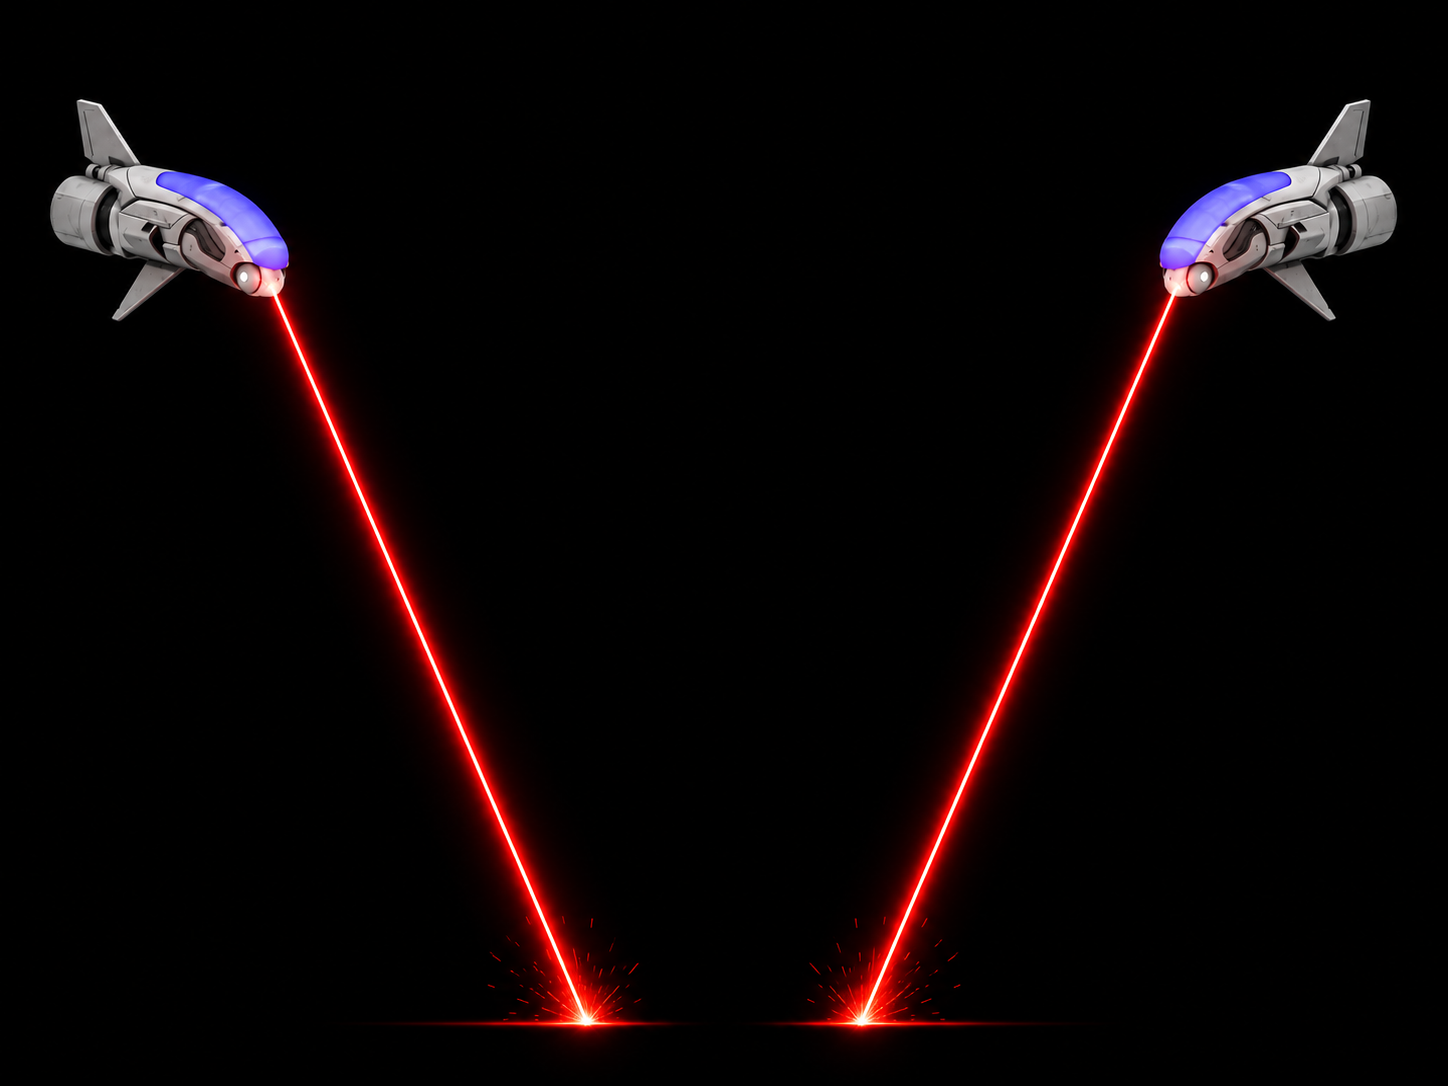
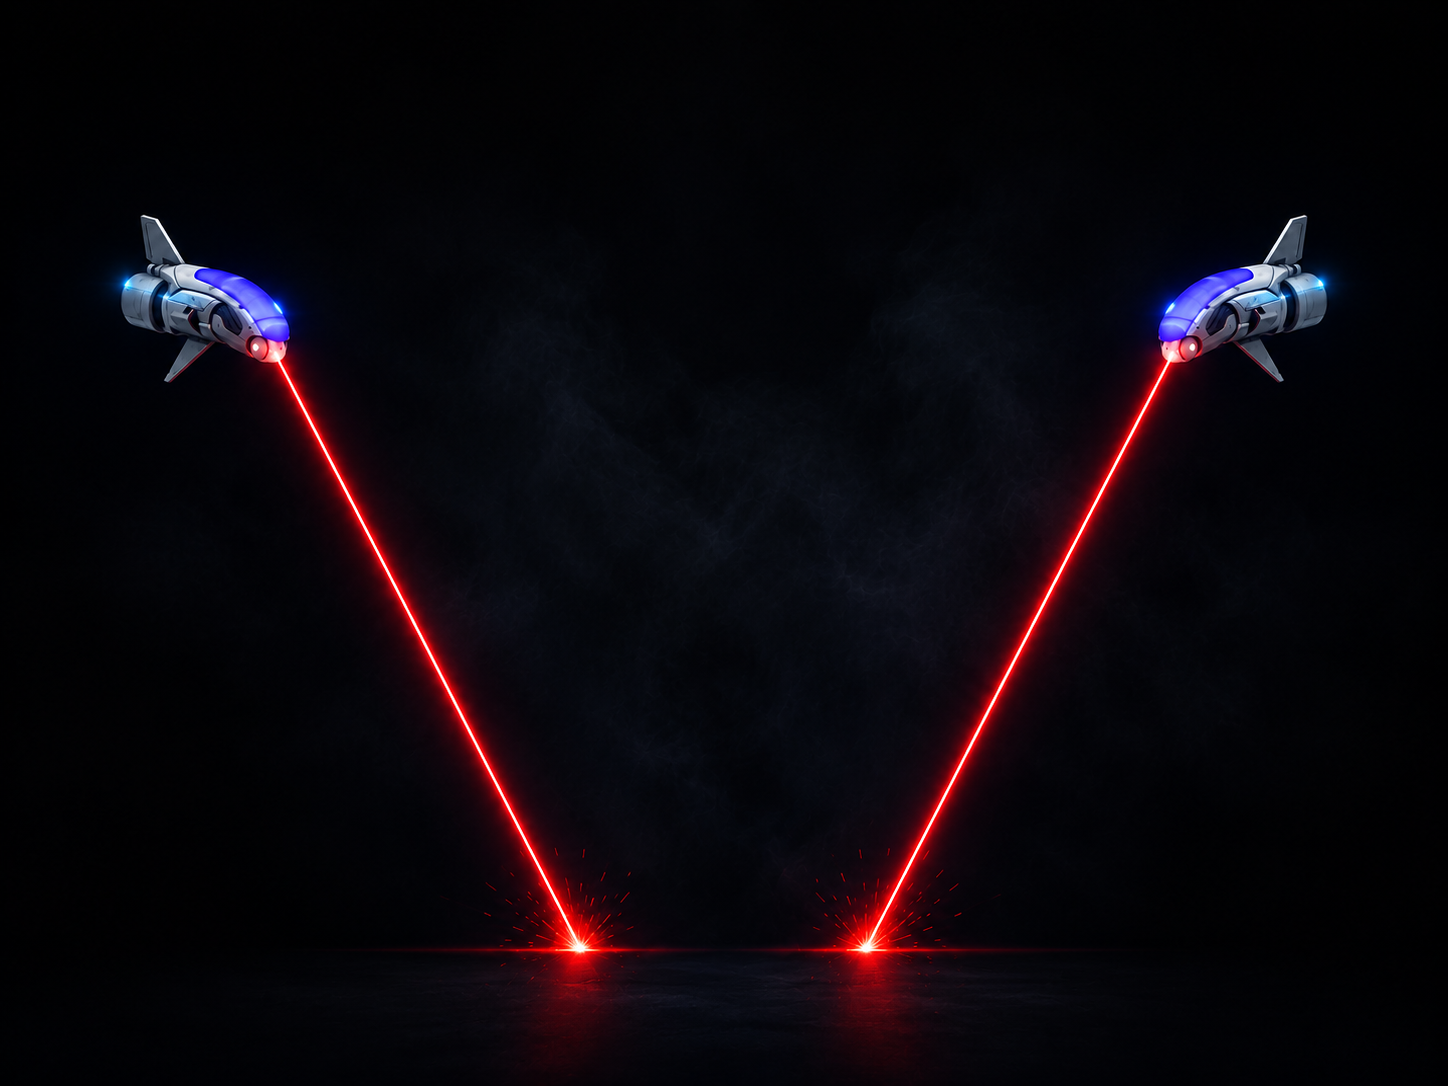
more HUD improvements (incl. new in-game HUD + new start background)

diff --git a/src/hud.cpp b/src/hud.cpp
@@ -2,6 +2,8 @@
 #include "screen_renderer.h"
 #include "texture_loading.h"
 
+#include <algorithm>
+
 void startingScreen(TextRenderer &tr, Player &player, int selectedEnv)
 {
     // update blink time
@@ -23,13 +25,19 @@ void startingScreen(TextRenderer &tr, Player &player, int selectedEnv)
     float textScale = std::min(xScale, yScale);
 
     // title
-    tr.RenderTextBordered("Drone  Shooter", 180.0f * xScale, 400.0f * yScale, 1.2f * textScale,
+    std::string_view title = "DRONE  SHOOTER";
+    float titleScale = 1.52f * textScale;
+    float titleX = (static_cast<float>(player.SCR_WIDTH) - tr.MeasureText(title, titleScale)) * 0.5f;
+    tr.RenderTextBordered(title, titleX, 475.0f * yScale, titleScale,
                            glm::vec3(0.392f, 0.263f, 1.0f), glm::vec3(1.0f, 1.0f, 1.0f));
 
     // add blinking effect
     if (static_cast<int>(tr.blink) % 2 == 0)
     {
-        tr.RenderText("Press  ENTER  to  start", 253.0f * xScale, 303.0f * yScale, 0.55f * textScale, glm::vec3(0.82f, 0.82f, 0.82f));
+        std::string_view startPrompt = "Press  ENTER  to  start";
+        float startPromptScale = 0.55f * textScale;
+        float startPromptX = (static_cast<float>(player.SCR_WIDTH) - tr.MeasureText(startPrompt, startPromptScale)) * 0.5f;
+        tr.RenderText(startPrompt, startPromptX, 315.0f * yScale, startPromptScale, glm::vec3(0.82f, 0.82f, 0.82f));
     }
 
     float textSize = 0.35f * textScale;
@@ -42,9 +50,10 @@ void startingScreen(TextRenderer &tr, Player &player, int selectedEnv)
     // environment selector
     const std::string envNames[4] = {"Desert", "Forest", "Snow", "Night"};
     float selectorTextSize = 0.55f * textScale;
-    float nameX   = 370.0f * xScale; // env name column
-    float arrowX  = 338.0f * xScale; // ">" column, slightly to the left
-    float startY  = 195.0f;
+    float selectedSelectorTextSize = selectorTextSize + 0.05f;
+    float nameCenterX = static_cast<float>(player.SCR_WIDTH) * 0.5f;
+    float arrowX = nameCenterX - 72.0f * xScale;
+    float startY  = 215.0f;
     float stepY   = 33.0f;
 
     for (int i = 0; i < 4; i++)
@@ -52,11 +61,13 @@ void startingScreen(TextRenderer &tr, Player &player, int selectedEnv)
         float y = (startY - i * stepY) * yScale;
         if (i == selectedEnv)
         {
+            float nameX = nameCenterX - tr.MeasureText(envNames[i], selectedSelectorTextSize) * 0.5f;
             tr.RenderTextBordered(">", arrowX, y, selectorTextSize, glm::vec3(0.392f, 0.263f, 1.0f), glm::vec3(1.0f, 1.0f, 1.0f));
-            tr.RenderTextBordered(envNames[i], nameX, y, selectorTextSize + 0.05, glm::vec3(0.392f, 0.263f, 1.0f), glm::vec3(1.0f, 1.0f, 1.0f));
+            tr.RenderTextBordered(envNames[i], nameX, y, selectedSelectorTextSize, glm::vec3(0.392f, 0.263f, 1.0f), glm::vec3(1.0f, 1.0f, 1.0f));
         }
         else
         {
+            float nameX = nameCenterX - tr.MeasureText(envNames[i], selectorTextSize) * 0.5f;
             tr.RenderText(envNames[i], nameX, y, selectorTextSize, glm::vec3(0.392f, 0.263f, 1.0f));
         }
     }
@@ -64,14 +75,9 @@ void startingScreen(TextRenderer &tr, Player &player, int selectedEnv)
 
 void inGameScreen(TextRenderer &tr, Player &player)
 {
-    // update blink time
-    tr.blink += tr.deltaTime + 0.03; // add small offset to make text blink faster
-
     // set projection matrix and render in-game HUD
     tr.projection = player.getOrthoProjectionMatrix();
     int playerHealth = static_cast<int>(player.getHealth());
-    std::string health = "Health:  " + std::to_string(playerHealth);
-    std::string kill = "Kills:  " + std::to_string(player.getKills());
 
     // calculate scaling factors (all x-pos and y-pos in RenderText are based on a screen with height = 600 and width = 800)
     float xScale = static_cast<float>(player.SCR_WIDTH) / 800.0f;
@@ -80,21 +86,49 @@ void inGameScreen(TextRenderer &tr, Player &player)
     // also calculate text scale factor
     float textScale = std::min(xScale, yScale);
 
-    // kill count
-    tr.RenderText(kill, 365.0f * xScale, 565.0f * yScale, 0.5f * textScale, glm::vec3(0.0f, 0.0f, 0.0f));
+    const glm::vec3 black(0.0f, 0.0f, 0.0f);
+    const glm::vec3 white(1.0f, 1.0f, 1.0f);
 
-    // player's health: add blinking effect and red color if it gets low
-    if (playerHealth <= 20)
+    int visibleHealth = playerHealth;
+    if (visibleHealth < 0)
     {
-        if (static_cast<int>(tr.blink) % 2 == 0)
-        {
-            tr.RenderText(health, 348.0f * xScale, 540.0f * yScale, 0.5f * textScale, glm::vec3(0.7f, 0.0f, 0.1f));
-        }
+        visibleHealth = 0;
     }
-    else
+    else if (visibleHealth > 100)
     {
-        tr.RenderText(health, 348.0f * xScale, 540.0f * yScale, 0.5f * textScale, glm::vec3(0.0f, 0.0f, 0.0f));
+        visibleHealth = 100;
     }
+
+    int filledBars = visibleHealth / 10;
+    std::string healthBar = "[" + std::string(filledBars, '#') + std::string(10 - filledBars, '-') + "]  " + std::to_string(visibleHealth);
+
+    glm::vec3 healthColor(0.0f, 0.82f, 0.22f);
+    if (visibleHealth < 30)
+    {
+        healthColor = glm::vec3(0.86f, 0.0f, 0.12f);
+    }
+    else if (visibleHealth <= 60)
+    {
+        healthColor = glm::vec3(1.0f, 0.46f, 0.0f);
+    }
+
+    float leftMargin = 20.0f * xScale;
+    tr.RenderTextBordered("HEALTH", leftMargin, 565.0f * yScale, 0.48f * textScale, black, white);
+    tr.RenderTextBordered(healthBar, leftMargin, 525.0f * yScale, 0.45f * textScale, healthColor, white);
+
+    std::string killsLabel = "KILLS";
+    std::string killCount = std::to_string(player.getKills());
+    float killsLabelScale = 0.48f * textScale;
+    float killCountScale = 0.68f * textScale;
+    float rightMargin = 24.0f * xScale;
+    float blockRight = static_cast<float>(player.SCR_WIDTH) - rightMargin;
+    float killsBlockWidth = std::max(tr.MeasureText(killsLabel, killsLabelScale), tr.MeasureText(killCount, killCountScale));
+    float killsCenter = blockRight - killsBlockWidth * 0.5f;
+
+    tr.RenderTextBordered(killsLabel, killsCenter - tr.MeasureText(killsLabel, killsLabelScale) * 0.5f,
+                          565.0f * yScale, killsLabelScale, black, white);
+    tr.RenderTextBordered(killCount, killsCenter - tr.MeasureText(killCount, killCountScale) * 0.5f,
+                          522.0f * yScale, killCountScale, black, white);
 
     // cross hairs
     float textSize = 0.3f * textScale;
@@ -108,6 +142,9 @@ void inGameScreen(TextRenderer &tr, Player &player)
 
 void endingScreen(TextRenderer &tr, Player &player)
 {
+    // update blink time
+    tr.blink += tr.deltaTime + 0.02;
+
     // render background image (lazy-initialized on first call)
     static ScreenRenderer renderer("shaders/screen.vert", "shaders/screen.frag");
     static unsigned int bgTexture = TextureFromFile("game_over.png", "resources/screens", true);
@@ -137,7 +174,10 @@ void endingScreen(TextRenderer &tr, Player &player)
 
     // The laser in the background sits slightly above center, so the title stays above it
     // while the stats and actions form a centered stack below it.
-    renderCenteredBordered("GAME OVER", 430.0f, 1.75f * textScale, red, white);
+    if (static_cast<int>(tr.blink) % 2 == 0)
+    {
+        renderCenteredBordered("GAME OVER", 430.0f, 1.75f * textScale, red, white);
+    }
     renderCenteredBordered("KILLS", 292.0f, 0.62f * textScale, white, red);
     renderCenteredBordered(std::to_string(player.getKills()), 215.0f, 1.22f * textScale, white, red);
     renderCenteredBordered("[ENTER]    -    RESTART", 158.0f, 0.50f * textScale, white, red);

diff --git a/src/text_renderer.cpp b/src/text_renderer.cpp
@@ -29,7 +29,13 @@ TextRenderer::TextRenderer(std::string pathToFont, std::string pathVertexShader,
 
 void TextRenderer::RenderText(std::string_view text, float x, float y, float scale, glm::vec3 color)
 {
+    GLboolean depthTestEnabled = glIsEnabled(GL_DEPTH_TEST);
+    GLboolean depthMask;
+    glGetBooleanv(GL_DEPTH_WRITEMASK, &depthMask);
+
     // set OpenGL state
+    glDisable(GL_DEPTH_TEST);
+    glDepthMask(GL_FALSE);
     glEnable(GL_BLEND);
     glBlendFunc(GL_SRC_ALPHA, GL_ONE_MINUS_SRC_ALPHA);
 
@@ -76,6 +82,11 @@ void TextRenderer::RenderText(std::string_view text, float x, float y, float sca
     glBindVertexArray(0);
     glBindTexture(GL_TEXTURE_2D, 0);
     glDisable(GL_BLEND);
+    glDepthMask(depthMask);
+    if (depthTestEnabled)
+    {
+        glEnable(GL_DEPTH_TEST);
+    }
 }
 
 float TextRenderer::MeasureText(std::string_view text, float scale) const
@@ -186,6 +197,12 @@ void TextRenderer::loadFace()
 
 void TextRenderer::RenderTextBordered(std::string_view text, float x, float y, float scale, glm::vec3 fillColor, glm::vec3 borderColor)
 {
+    GLboolean depthTestEnabled = glIsEnabled(GL_DEPTH_TEST);
+    GLboolean depthMask;
+    glGetBooleanv(GL_DEPTH_WRITEMASK, &depthMask);
+
+    glDisable(GL_DEPTH_TEST);
+    glDepthMask(GL_FALSE);
     glEnable(GL_BLEND);
     glBlendFunc(GL_SRC_ALPHA, GL_ONE_MINUS_SRC_ALPHA);
     shader.use();
@@ -254,6 +271,11 @@ void TextRenderer::RenderTextBordered(std::string_view text, float x, float y, f
     glBindVertexArray(0);
     glBindTexture(GL_TEXTURE_2D, 0);
     glDisable(GL_BLEND);
+    glDepthMask(depthMask);
+    if (depthTestEnabled)
+    {
+        glEnable(GL_DEPTH_TEST);
+    }
 }
 
 void TextRenderer::configBuffers()